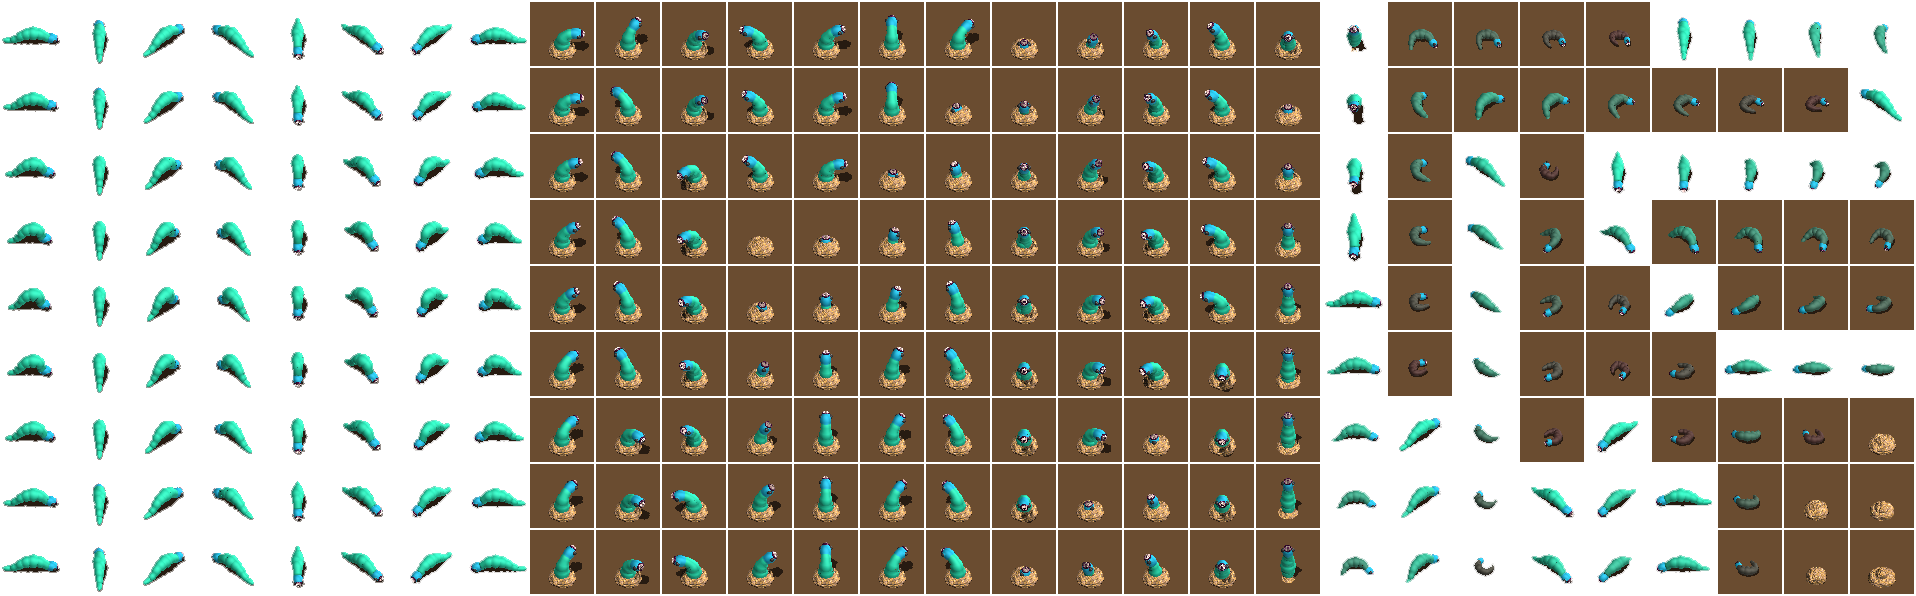
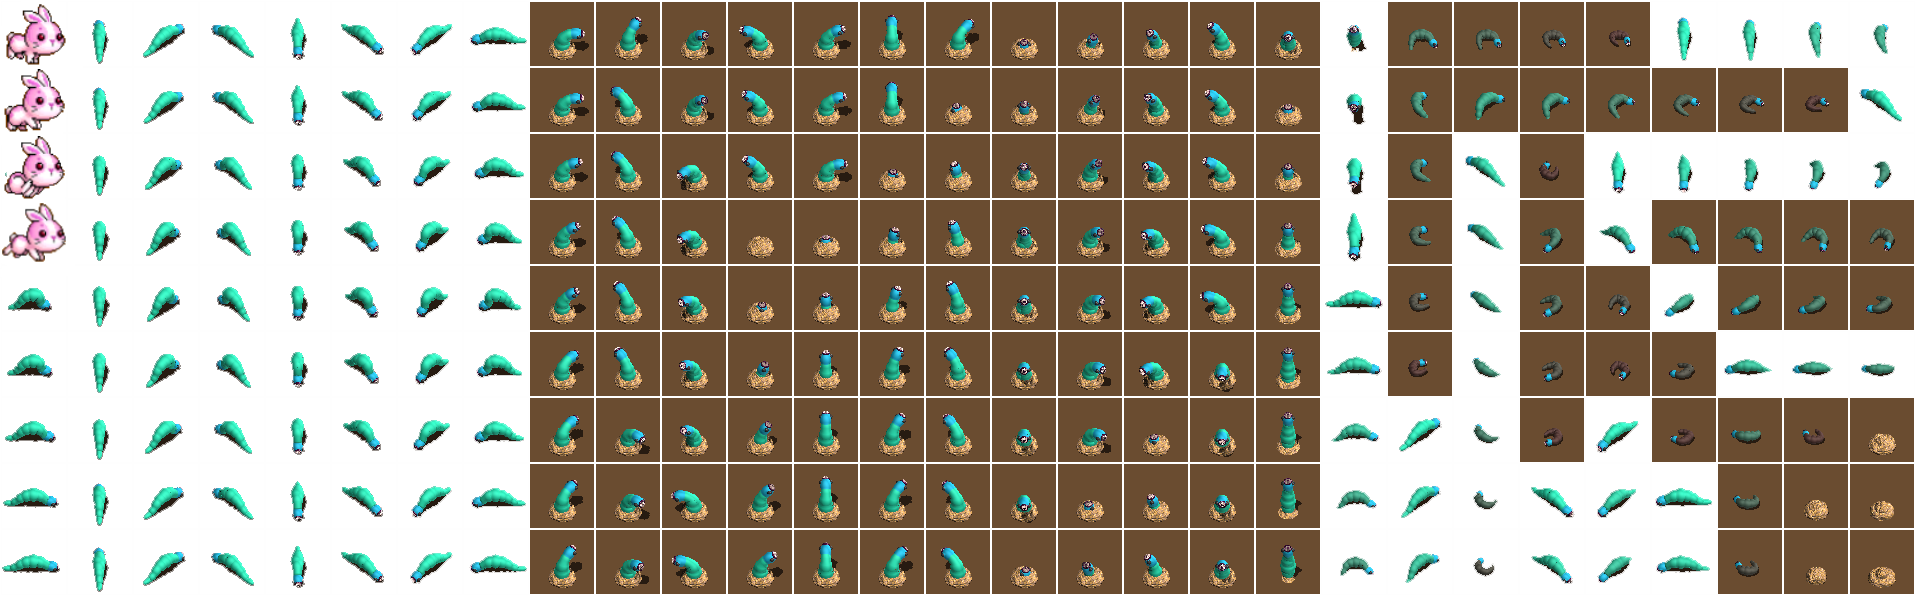
New sprites

Changed region(s): [[0.0, 0.0, 0.0308, 0.453]]

diff --git a/client/app/game/js/preloader.js b/client/app/game/js/preloader.js
@@ -18,10 +18,10 @@
 		},
 
 		loadResources: function () {
-			this.load.image('background_tile', '../assets/background_tile.png');
-			this.load.image('tower_tile', '../assets/tower_tile.png');
-			this.load.image('tower_ice', '../assets/tower_ice.png');
-			this.load.image('path_tile', '../assets/path_tile.png');
+			this.load.image('background_tile', '../assets/dirt_tile.png');
+			this.load.image('tower_tile', '../assets/buy_tower_tile.png');
+			this.load.image('tower_ice', '../assets/purchased_tower_tile.png');
+			this.load.image('path_tile', '../assets/path_tile2.png');
 			this.load.image('background', '../assets/background.png');
 			this.load.image('timebar', '../assets/timebar.png');
 			this.load.image('buttonmask', '../assets/buttonmask.png');

diff --git a/client/app/game/js/game.js b/client/app/game/js/game.js
@@ -383,7 +383,7 @@ bunny = function (index, game, points, startY, pi) {
     this.creepSprite.anchor.set(0);
     this.creepSprite.scale.setTo(0.7, 0.7);
     this.creepSprite.index = index;
-    this.creepSprite.animations.add('move', Phaser.Animation.generateFrameNames('kriecht e', 0, 6, '', 4), 30, true);
+    this.creepSprite.animations.add('move', Phaser.Animation.generateFrameNames('kriecht e', 0, 3, '', 4), 30, true);//
     this.creepSprite.animations.play('move', 10, true);
 
     for (var i = 0; i <= 1; i += this.movementSpeed) {
